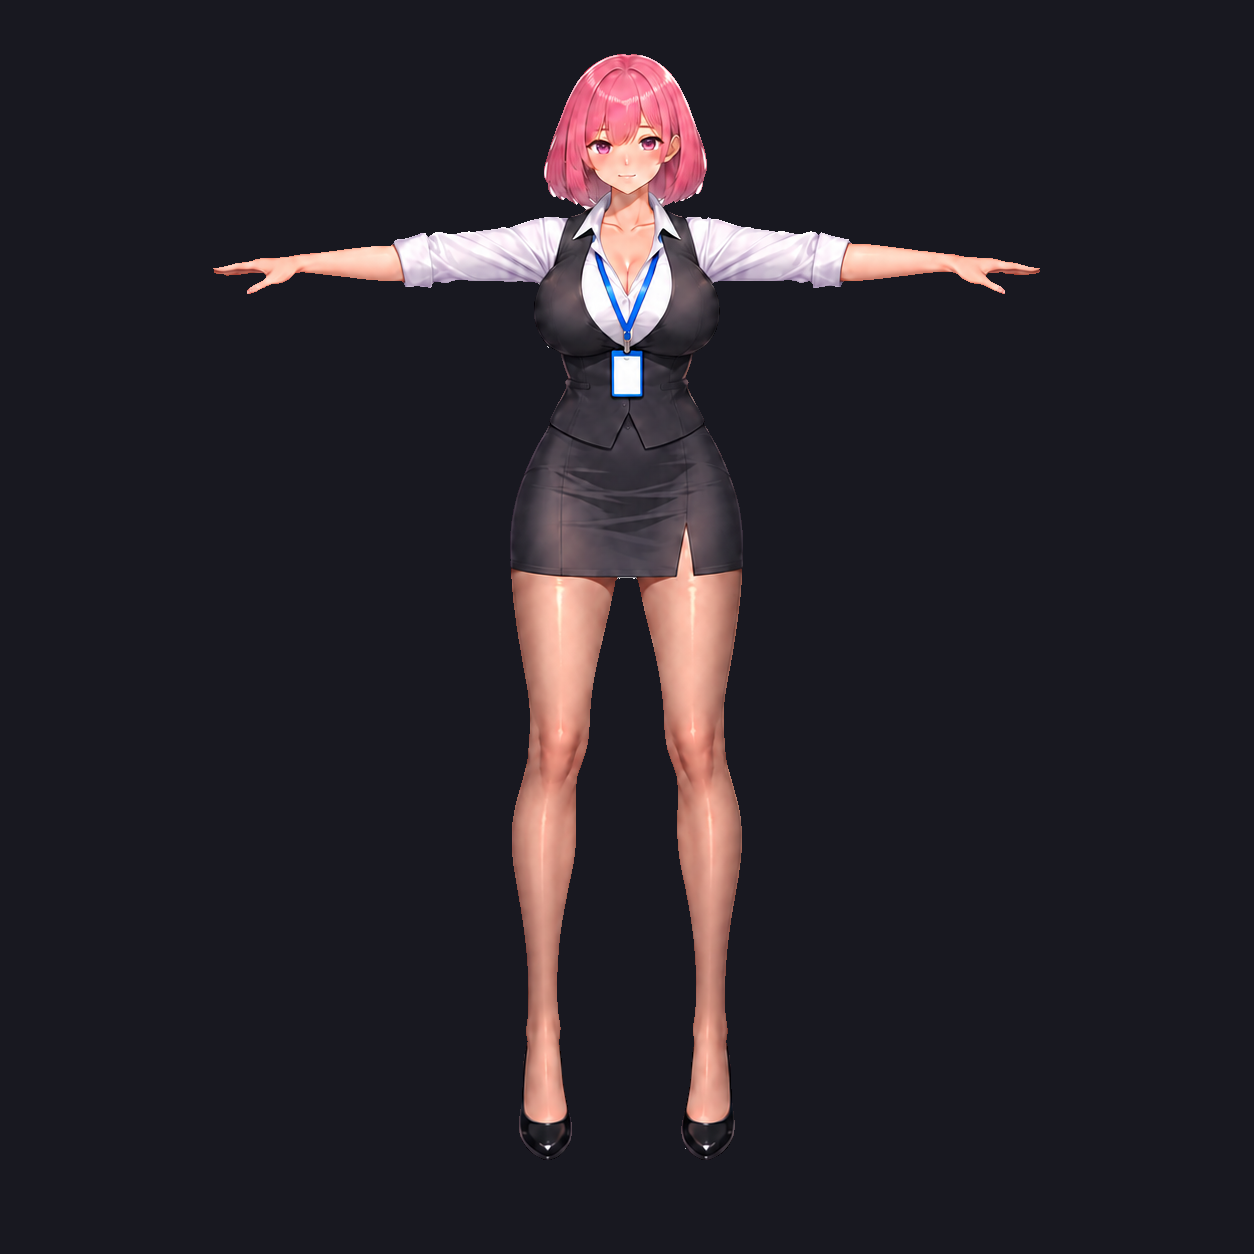
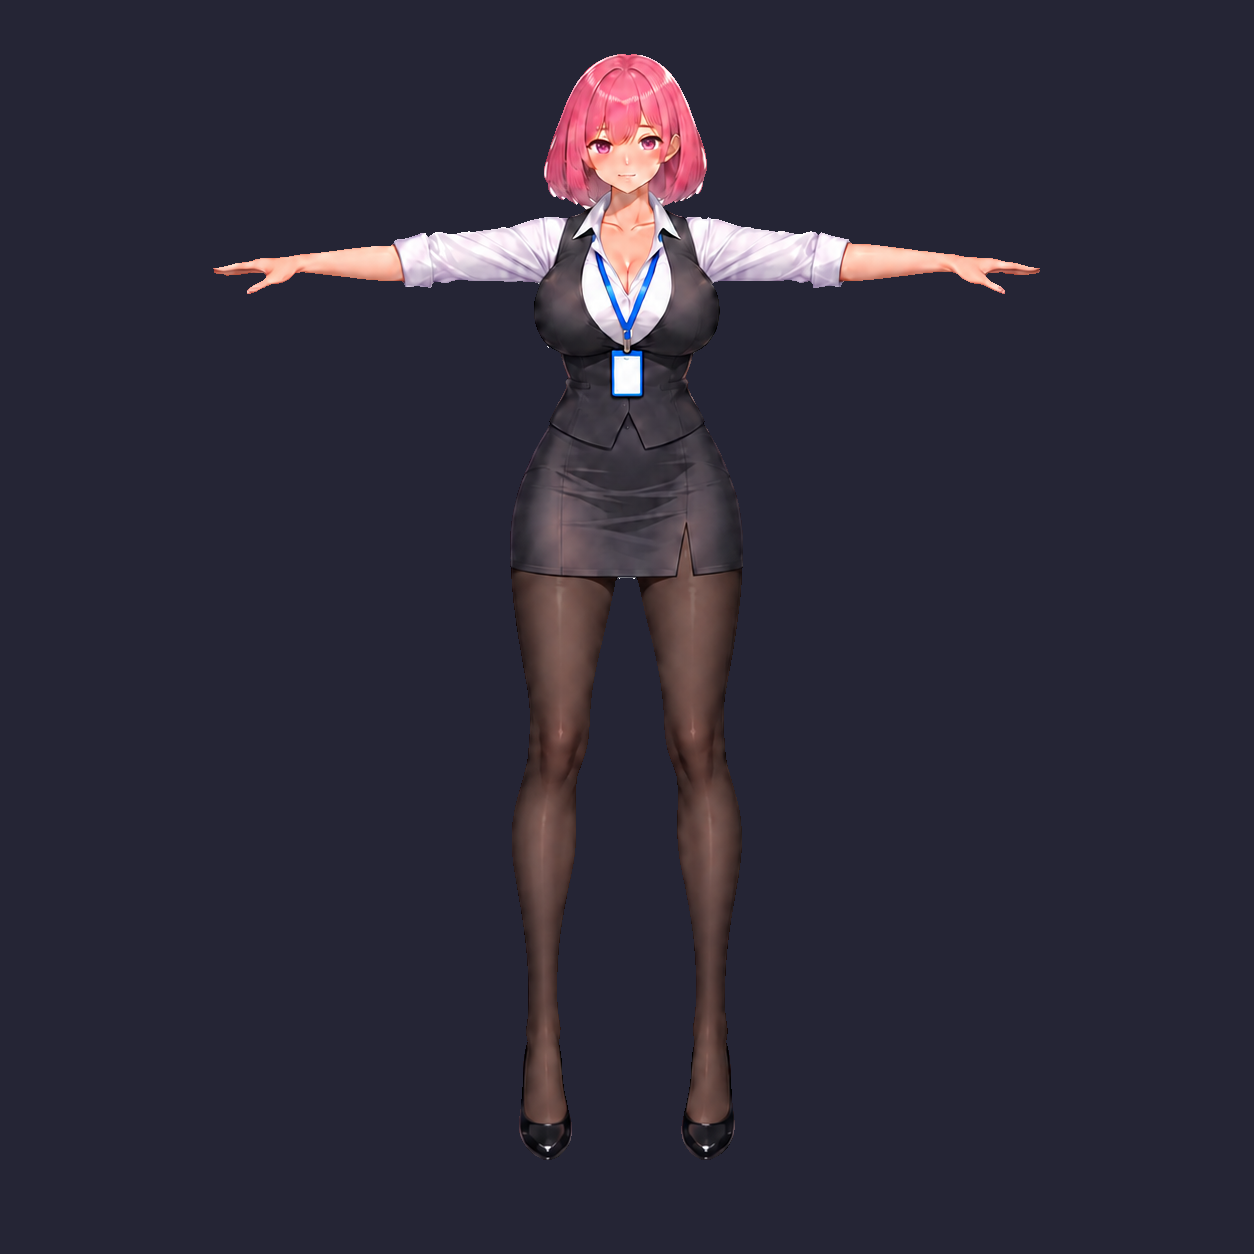
[rc3][task-4b] revise T-pose tights and localize leg weights

diff --git a/godot/scripts/rig/validate_front_leg_mesh_spike_static.py b/godot/scripts/rig/validate_front_leg_mesh_spike_static.py
@@ -1,0 +1,95 @@
+#!/usr/bin/env python3
+"""Validate the Task 4B mesh without importing or running Godot."""
+
+from __future__ import annotations
+
+import math
+import re
+from pathlib import Path
+
+
+SCENE = Path(__file__).parents[2] / "scenes/rig/kotone_front_leg_mesh_spike.tscn"
+PIVOT_KNEE = (555.0, 765.0)
+
+
+def parse_numbers(payload: str) -> list[float]:
+    return [float(value.strip()) for value in payload.split(",")]
+
+
+def expected_weights(y: float) -> tuple[float, float, float]:
+    if y <= 735.0:
+        return 1.0, 0.0, 0.0
+    if y < 795.0:
+        knee = (y - 735.0) / 60.0
+        return 1.0 - knee, knee, 0.0
+    if y <= 1010.0:
+        return 0.0, 1.0, 0.0
+    if y < 1070.0:
+        ankle = (y - 1010.0) / 60.0
+        return 0.0, 1.0 - ankle, ankle
+    return 0.0, 0.0, 1.0
+
+
+def rotate(point: tuple[float, float], pivot: tuple[float, float], degrees: float) -> tuple[float, float]:
+    angle = math.radians(degrees)
+    cosine, sine = math.cos(angle), math.sin(angle)
+    dx, dy = point[0] - pivot[0], point[1] - pivot[1]
+    return pivot[0] + dx * cosine - dy * sine, pivot[1] + dx * sine + dy * cosine
+
+
+def main() -> None:
+    text = SCENE.read_text(encoding="utf-8")
+    polygon_match = re.search(r"^polygon = PackedVector2Array\((.*?)\)$", text, re.MULTILINE)
+    if polygon_match is None:
+        raise SystemExit("FAIL: polygon array not found")
+    coordinates = parse_numbers(polygon_match.group(1))
+    vertices = list(zip(coordinates[0::2], coordinates[1::2]))
+
+    bones_match = re.search(r"^bones = \[(.*?)\]$", text, re.MULTILINE)
+    if bones_match is None:
+        raise SystemExit("FAIL: bones array not found")
+    weight_payloads = re.findall(r"PackedFloat32Array\((.*?)\)", bones_match.group(1))
+    weights = [parse_numbers(payload) for payload in weight_payloads]
+
+    assert len(vertices) == 72, f"expected 72 vertices, got {len(vertices)}"
+    assert len(weights) == 3, f"expected 3 weight slots, got {len(weights)}"
+    assert all(len(slot) == len(vertices) for slot in weights), "weight count differs from vertex count"
+
+    for index, (_, y) in enumerate(vertices):
+        actual = tuple(slot[index] for slot in weights)
+        expected = expected_weights(y)
+        assert abs(sum(actual) - 1.0) < 0.001, f"vertex {index} is not normalized: {actual}"
+        assert all(abs(a - e) < 0.001 for a, e in zip(actual, expected)), (
+            f"vertex {index} at y={y} has {actual}, expected {expected}"
+        )
+
+    # A knee-only pose gives knee and its ankle descendant the same rigid
+    # transform. Below the narrow knee blend, hip weight must therefore be zero
+    # and every mesh edge must preserve its length exactly.
+    transformed: list[tuple[float, float]] = []
+    for index, point in enumerate(vertices):
+        hip, knee, ankle = (slot[index] for slot in weights)
+        rotated = rotate(point, PIVOT_KNEE, 45.0)
+        transformed.append(
+            (
+                hip * point[0] + (knee + ankle) * rotated[0],
+                hip * point[1] + (knee + ankle) * rotated[1],
+            )
+        )
+
+    rigid_indices = [index for index, (_, y) in enumerate(vertices) if y >= 795.0]
+    max_distance_error = 0.0
+    for left, right in zip(rigid_indices, rigid_indices[1:]):
+        before = math.dist(vertices[left], vertices[right])
+        after = math.dist(transformed[left], transformed[right])
+        max_distance_error = max(max_distance_error, abs(before - after))
+    assert max_distance_error < 1e-6, f"calf is not rigid: max edge error {max_distance_error}"
+
+    print(f"PASS: {len(vertices)} vertices; 3 normalized localized weight slots")
+    print("PASS: hip/knee crossover Y=765; knee/ankle crossover Y=1040")
+    print(f"PASS: 45-degree knee test keeps rigid section exact (max edge error {max_distance_error:.9f}px)")
+    print("STATIC VALIDATION PASSED")
+
+
+if __name__ == "__main__":
+    main()

diff --git a/references/rc3/FRONT_LEG_MESH_SPIKE_NOTES.md b/references/rc3/FRONT_LEG_MESH_SPIKE_NOTES.md
@@ -1,0 +1,66 @@
+# Front leg mesh spike: implementation note
+
+This note is the handoff for `kotone_front_leg_mesh_spike.tscn`. It describes
+the actual coordinate system and the weight rule; no visual guesswork is needed.
+
+## What was wrong
+
+The first spike spread every bone across most of the leg. Its strongest
+`knee_right` influence was around source Y=925 although the knee pivot is at
+Y=765. Its strongest `ankle_right` influence was around Y=1150 although the
+ankle pivot is at Y=1040. Rotating the knee therefore bent the whole limb like
+a rubber hose instead of keeping the thigh and calf approximately rigid.
+
+## Fixed rest coordinates
+
+All values are pixels in the 1254x1254 T-pose source:
+
+- anatomical right hip: `(555, 560)`;
+- anatomical right knee: `(555, 765)`;
+- anatomical right ankle: `(555, 1040)`;
+- chain: `pelvis -> hip_right -> knee_right -> ankle_right`;
+- working mesh: `FrontLegMesh`, 72 vertices, 48 cells.
+
+## Weight rule already written into the scene
+
+Weights depend on each vertex's source Y coordinate. Only 60-pixel bands
+around real joints are blended:
+
+```text
+y <= 735       hip=1
+735 < y < 795  hip=(795-y)/60, knee=(y-735)/60
+795 <= y <=1010 knee=1
+1010 < y <1070 knee=(1070-y)/60, ankle=(y-1010)/60
+y >= 1070      ankle=1
+```
+
+This makes the hip/knee crossover exactly Y=765 and the knee/ankle crossover
+exactly Y=1040. Never replace this with a smooth gradient over the full leg.
+
+## Required Godot verification
+
+Run from the `godot/` directory with Godot 4.7.2:
+
+```bash
+python3 scripts/rig/validate_front_leg_mesh_spike_static.py
+godot --headless --path . --editor --quit
+godot --headless --path . --script res://scripts/rig/validate_front_leg_mesh_spike.gd
+xvfb-run -a godot --path . --script res://scripts/rig/render_front_leg_mesh_spike.gd
+```
+
+The last command must create all three active `task4b_leg_mesh_spike*.png`
+files and exit zero. Dummy headless rendering now exits nonzero instead of
+claiming success without rasterizing.
+
+Visual acceptance at 0, 20 and 45 degrees:
+
+- the thigh above the knee stays still when only `knee_right` rotates;
+- the calf is nearly rigid and rotates around `(555, 765)`;
+- deformation is confined to a narrow band around the kneecap;
+- no banana curve, local narrowing, transparent tear or duplicated edge;
+- tights and shoe texture remain continuous;
+- dark and magenta previews have no halo.
+
+The previous Task 4B PNGs were moved under
+`preview/rejected_task4b_old_weights/`; they are historical evidence only and
+must not be used to approve the corrected scene.

diff --git a/references/rc3/RC3_WORKFLOW.md b/references/rc3/RC3_WORKFLOW.md
@@ -62,8 +62,9 @@ original references remain untouched unless explicitly requested.
 
 1. Archive rigid-cutout experiment — complete.
 2. Prepare fresh front T-pose/mesh workspace — complete.
-3. Create front T-pose source and QA — current, awaiting user review.
-4. Build and approve a weighted single-limb deformation spike.
+3. Create front T-pose source and QA — tights revision awaiting user review.
+4. Build and approve a weighted single-limb deformation spike — corrected
+   weights prepared; Godot GL/Xvfb rerender still required.
 5. Build and approve the complete front neutral rig.
 6. Author animations only after the previous gates pass.
 7. Create separate side/back sources and rigs when explicitly scheduled.

diff --git a/godot/assets/rc3/rig/preview/README.md b/godot/assets/rc3/rig/preview/README.md
@@ -10,3 +10,8 @@ Every approved source or mesh stage must include:
 - labelled deformation comparison when bones and weights are introduced.
 
 Passing a structural validator does not replace visual review.
+
+The active Task 4B previews are intentionally absent after the joint-weight
+correction. They must be regenerated with a GL/Xvfb Godot run before review.
+The old, rejected renders live under `rejected_task4b_old_weights/` and are not
+evidence for the current scene.

diff --git a/godot/assets/rc3/rig/preview/rejected_task4b_old_weights/README.md b/godot/assets/rc3/rig/preview/rejected_task4b_old_weights/README.md
@@ -1,0 +1,7 @@
+# Rejected Task 4B previews
+
+These images were rendered from the original full-leg gradient weights and are
+kept only as failure evidence. They show the rubber-hose deformation caused by
+knee and ankle influence being centered far below the actual joints.
+
+They do not represent the current scene and cannot be used for approval.
